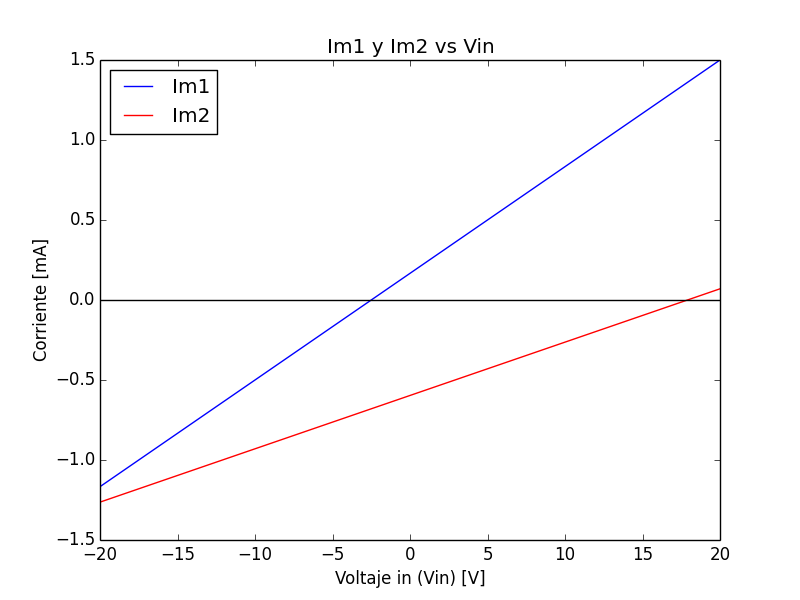
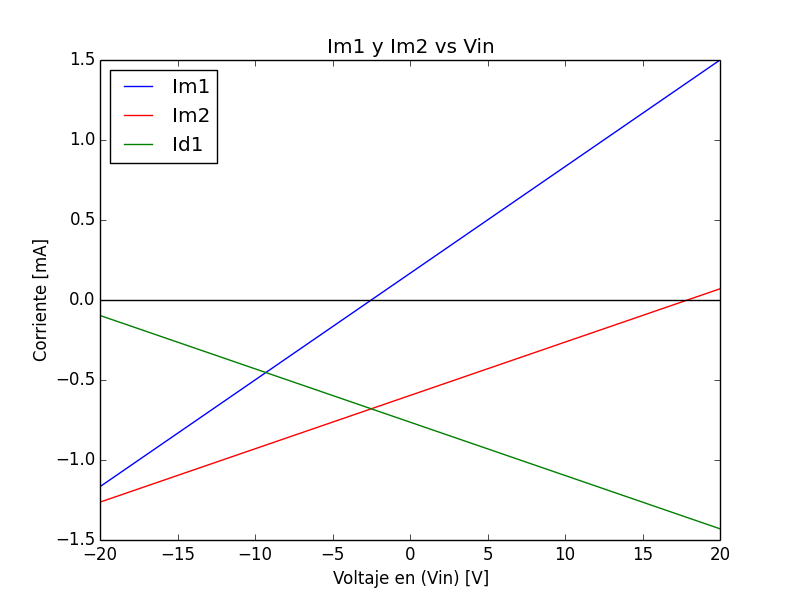
Vo

diff --git a/Tarea2_Vo.py b/Tarea2_Vo.py
@@ -28,21 +28,66 @@ zero = np.zeros(100)
 A=0
 for i in IIm1:
     if i<0.01 and i>-0.01:
-        print "Vc1 = " + str(VVin[A])
+        print "Vm1 = " + str(VVin[A])
     A+=1
 
 B=0
 for i in IIm2:
     if i<0.01 and i>-0.01:
-        print "Vc2 = " + str(VVin[B])
+        print "Vm2 = " + str(VVin[B])
     B+=1
+
+Id1 = IIm2 - IIm1
+
+C=0
+for i in Id1:
+    if i<0.01 and i>-0.01:
+        print "Vd1 = " + str(VVin[B])
+    C+=1
 
 #Graficas
 plt.plot(VVin,IIm1, label = "Im1")
 plt.plot(VVin,IIm2, c = "r", label = "Im2")
+plt.plot(VVin,Id1, c = "g", label = "Id1")
 plt.plot(VVin, zero, c = "k")
 plt.legend(loc = 2)
 plt.title("Im1 y Im2 vs Vin")
-plt.xlabel("Voltaje in (Vin) [V]")
+plt.xlabel("Voltaje en (Vin) [V]")
 plt.ylabel("Corriente [mA]")
 plt.savefig("Im1_Im2__Vin.png")
+plt.clf()
+
+#Constantes
+Vc1 = -1000.0
+Vc2 = 17.9
+R1 = 10000.0
+R2 = R1
+R3 = R1
+V1 = 10.0
+V2 = 5.0
+Vg = 0.7
+
+#Funcion de Vo
+def Vo(Vin):
+    ans = np.array([])
+    for i in Vin:
+        if i < Vc2:
+            ans = np.append(ans,i)
+        else:
+            a = ((R3/(R3+R1))*i) - Vg + V2
+            ans = np.append(ans,a)
+    return ans
+
+#Linea de Vc2
+one = np.ones(100)
+vcc2 = one*Vc2
+
+#Grafica
+plt.plot(VVin,Vo(VVin))
+plt.plot(vcc2,VVin, c = "y", label = "Vc2")
+plt.legend(loc = 2)
+plt.title("Vo vs Vin")
+plt.xlabel("Voltaje en Vin [V]")
+plt.ylabel("Voltaje en Vo [V]")
+plt.savefig("Vo_vs_Vin.png")
+plt.clf()
